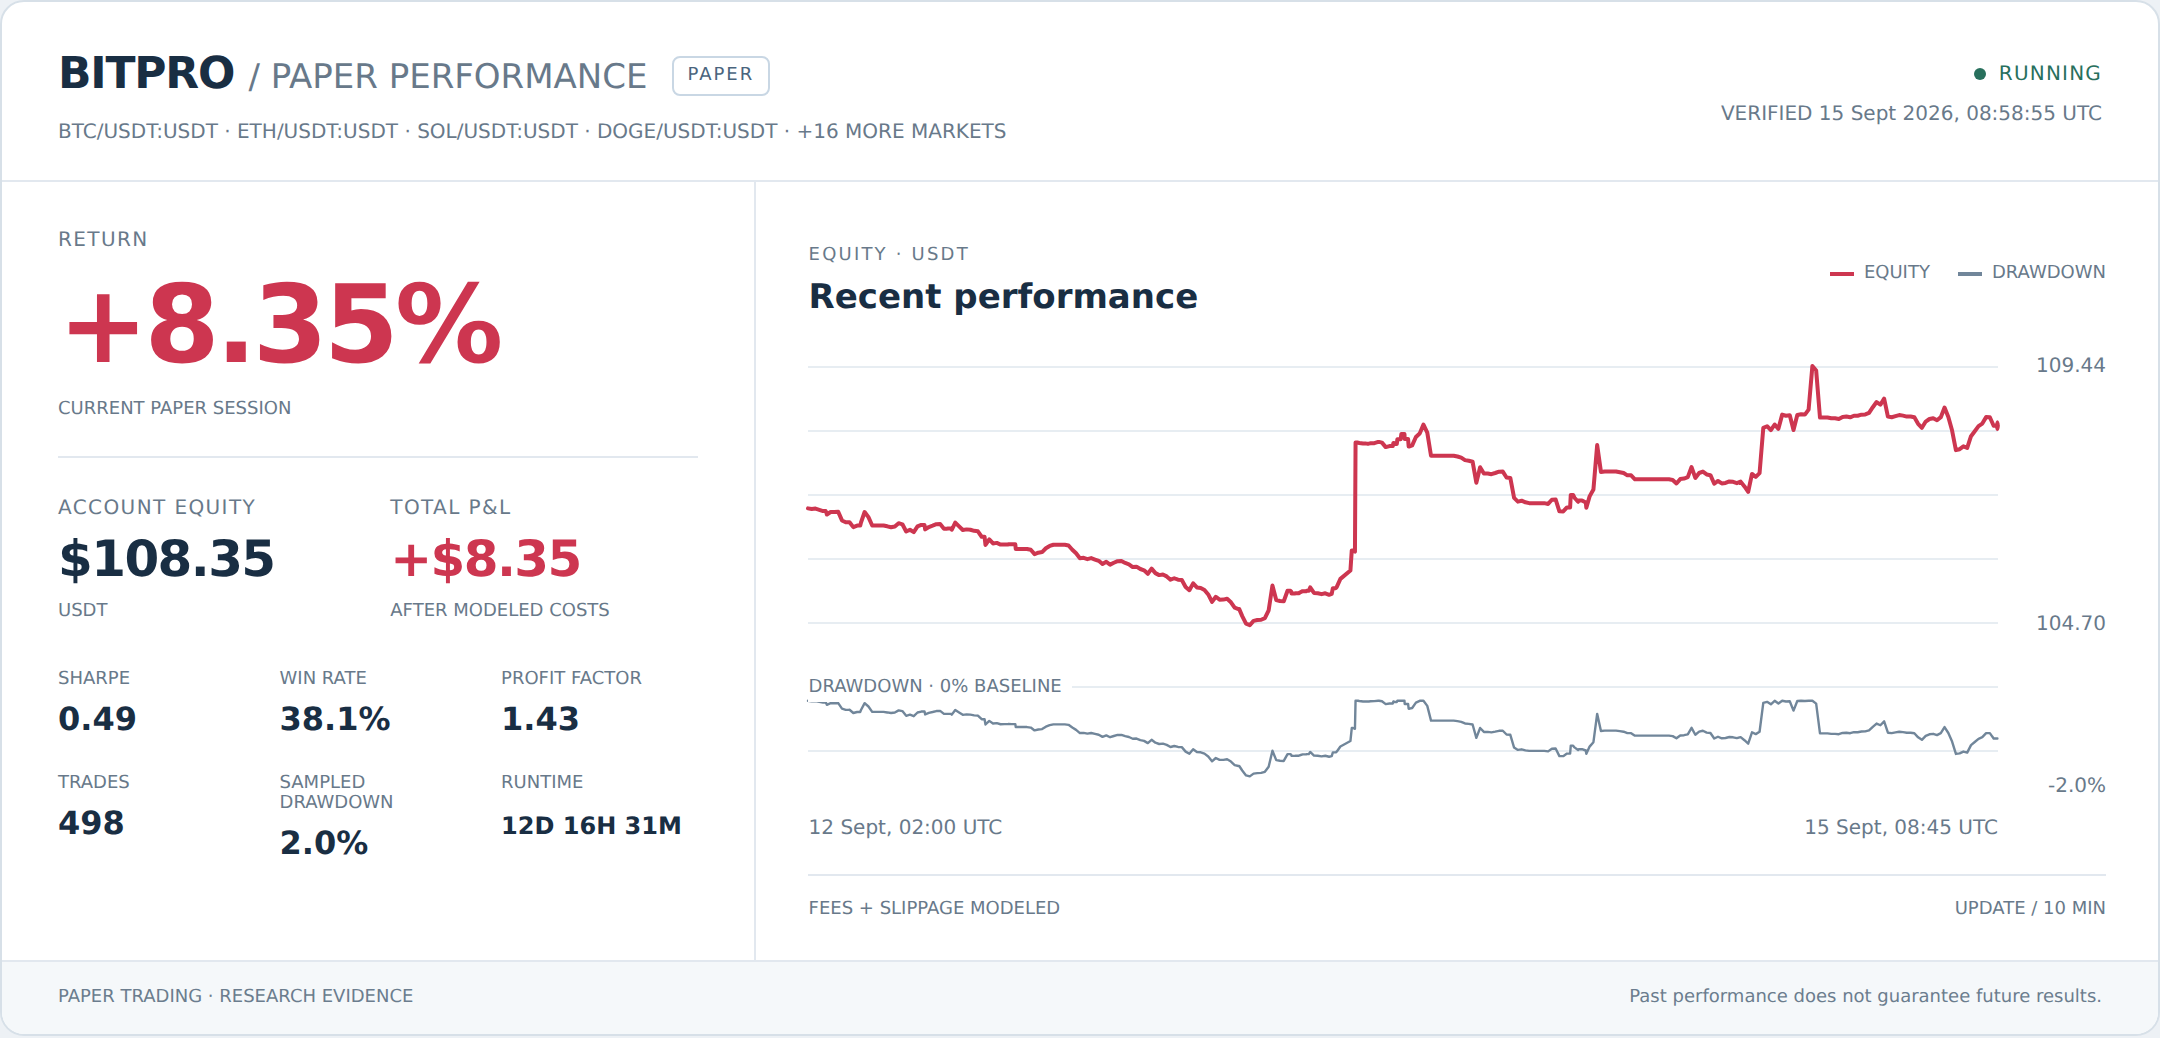
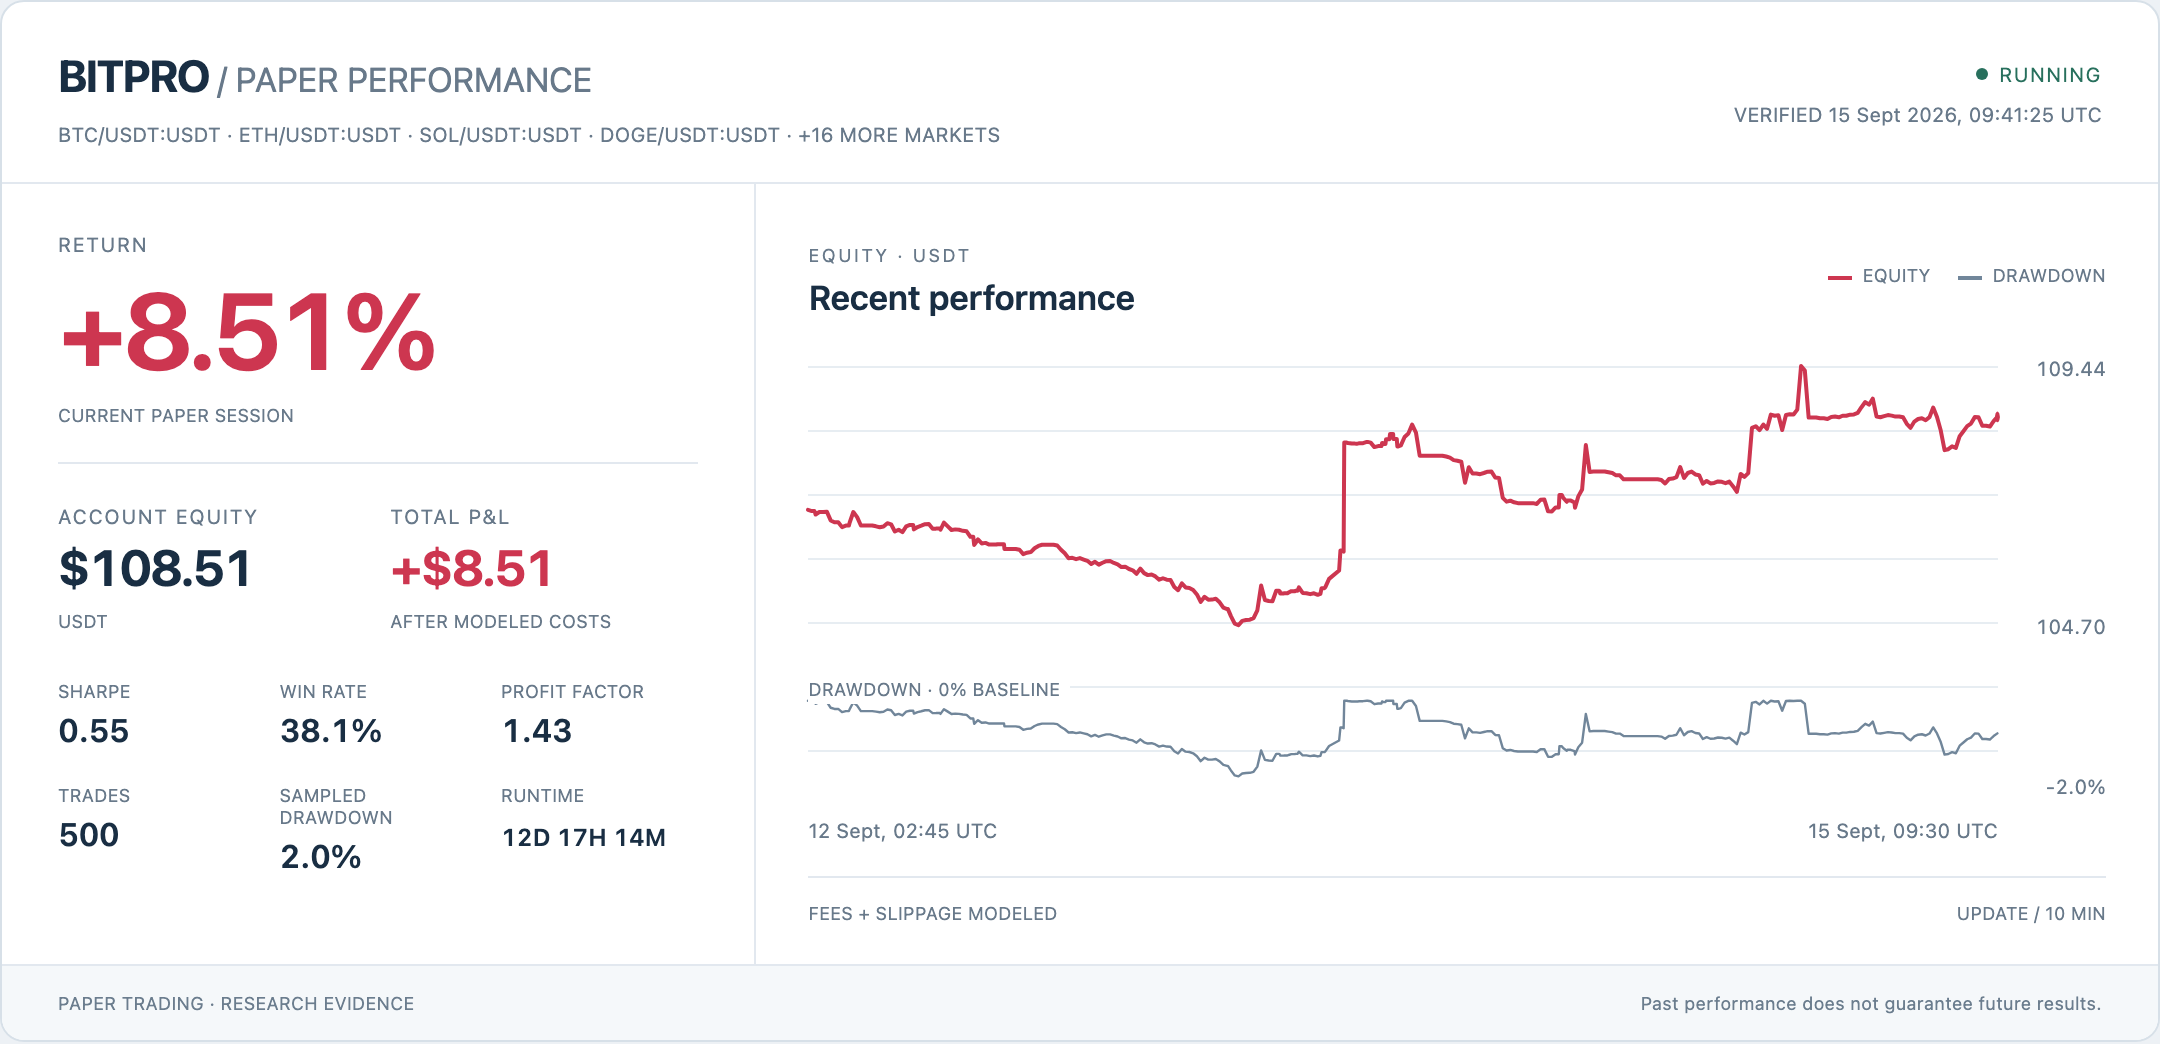
docs: add Kaggriculture and simplify performance heading

diff --git a/docs/strategy/index.html b/docs/strategy/index.html
@@ -21,7 +21,6 @@
           <div class="brand-lockup">
             <div class="brand-line">
               <h1>BITPRO <span>/ PAPER PERFORMANCE</span></h1>
-              <span class="paper-chip">PAPER</span>
             </div>
             <p id="symbols" class="symbols">Loading public market scope…</p>
           </div>

diff --git a/README.md b/README.md
@@ -84,6 +84,7 @@ Agent engineering capabilities: `Planning` · `Tool Calling` · `MCP` · `JSON S
 ### Kaggle Competition Research
 
 - **[RSNA Knee Abnormality Detection](https://www.kaggle.com/competitions/rsna-knee-abnormality-detection)** — An ongoing medical-imaging competition focused on multimodal knee abnormality detection using MRI scans and radiology reports.
+- **[Kaggriculture](https://www.kaggle.com/competitions/kaggriculture)** — An ongoing farming strategy competition focused on resource allocation, market decisions, and agent strategy evaluation.
 
 ### Quantitative Research | Perpetual Futures & Chinese A-shares
 

diff --git a/README_CN.md b/README_CN.md
@@ -80,6 +80,7 @@ Agent 工程能力：`任务规划` · `Tool Calling` · `MCP` · `JSON Schema` 
 ### Kaggle 竞赛研究
 
 - **[RSNA Knee Abnormality Detection](https://www.kaggle.com/competitions/rsna-knee-abnormality-detection)**：正在参与的医学影像竞赛，围绕膝关节 MRI 与影像报告的多模态异常检测开展研究。
+- **[Kaggriculture](https://www.kaggle.com/competitions/kaggriculture)**：正在参与的农业经营策略竞赛，围绕资源分配、市场决策与 Agent 策略评测开展研究。
 
 ### 量化研究｜永续合约与 A 股
 
